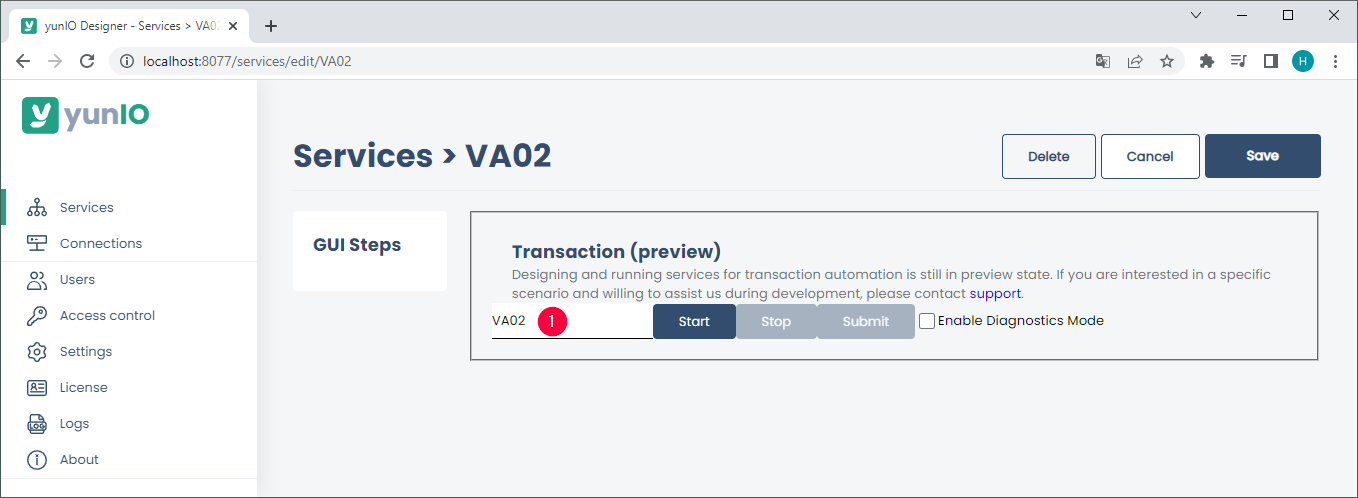
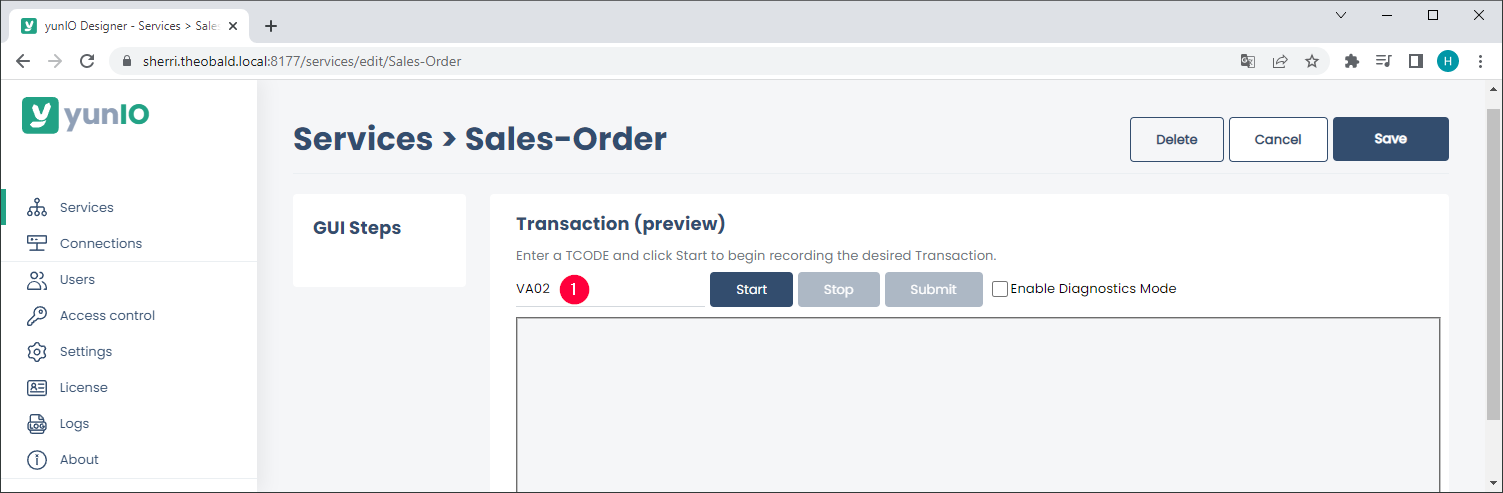
new screenshots

diff --git a/content/_de/yunio/transactions.md b/content/_de/yunio/transactions.md
@@ -24,44 +24,44 @@ Transaktionen erfordern zwingend die Verwendung eines SAP-Dialogbenutzers in den
 Wenn Sie mit der Navigation der SAP GUI vertraut sind, vereinfacht das die Erstellung eines *Transaction* Services.
 
 
-### Transaktionen Auszeichnen
+### Transaktionen Aufzeichnen
 
 1. Erstellen Sie einen neuen *Service* vom Typ *Transaction*.  
-2. Geben Sie einen Transaktionscode ein (1) und klicken Sie auf **[Start]**, um die Transaktion auszuführen.
-Der Inhalt der SAP GUI wird angezeigt.<br>
-Klicken Sie auf **[Stop]**, um die laufende Transaktion abzubrechen.<br>
+2. Geben Sie einen Transaktionscode ein (1). <br>
 ![transaction](/img/content/yunio/transaction.png){:class="img-responsive"}
-3. Füllen Sie die Eingabefelder so aus, wie Sie es in der SAP GUI tun würden. Die Felder können parametrisiert werden, sobald die Transaktion aufgezeichnet wurde.
-4. Klicken Sie auf **[Submit]** (2), um Ihre Eingaben zu übergeben.
+3. Klicken Sie auf **[Start]**, um die Transaktion auszuführen.
+Der Inhalt der SAP GUI wird angezeigt.
+4. Füllen Sie die Eingabefelder so aus, wie Sie es in der SAP GUI tun würden. Die Felder können parametrisiert werden, sobald die Transaktion aufgezeichnet wurde.
+5. Klicken Sie auf **[Submit]** (2), um Ihre Eingaben zu übergeben.
 Alle Aktionen die Sie ausführen, werden im Abschnitt *GUI Steps* aufgezeichnet (3). <br>
 ![transaction-ie01](/img/content/yunio/transaction-ie01.png){:class="img-responsive"}
-5. Klicken Sie auf **[Save]**, sobald alle Eingaben erledigt sind. <br>
+6. Klicken Sie auf **[Save]**, sobald alle Eingaben erledigt sind. <br>
 Alternativ, klicken Sie auf **[Stop]**, um die Transaktion zu parametrisieren, siehe [Transaktionen Parametrisieren](#transaktionen-parametrisieren).
 
 ### Transaktionen Parametrisieren
 
+{: .box-note }
+**Hinweis:** Alle Felder, die Sie parametrisieren möchten, müssen im Transaktions-Service über den Abschnitt *GUI Steps* verfügbar sind. Um ein Feld in einem bestimmten Reiter oder einem Menü zu parametrisieren, muss der Reiter / das Menü geöffnet werden, wenn die Transaktion aufgezeichnet wird.
+
 Führen Sie die folgenden Schritte aus, um eine Transaktion zu parametrisieren.
 
-1. Zeichnen Sie eine Transaktion auf, siehe [Record Transactions](#record-transactions).<br>
-Achten Sie darauf, dass alle Felder, die Sie parametrisieren möchten, über den Abschnitt *GUI Steps* verfügbar sind.
-Beispiel: Wenn ein Eingabefeld in einem bestimmten Reiter oder einem Menü parametrisieren möchten, muss der Reiter / das Menü geöffnet werden, wenn Sie die Transaktion aufzeichnen.
-2. Öffnen Sie den Transaktions-Service. Um einen Service zu bearbeiten, klicken Sie im Menü *Services* auf **[Edit]** ( ![edit-cog-icon](/img/content/yunio/edit-cog-icon.png){:class="img-responsive" style="display:inline"} Symbol), um die Transaktion zu öffnen.<br>
-![transaction-edit](/img/content/yunio/transaction-edit.png){:class="img-responsive"}
-3. In dem Abschnitt *SAP GUI* klicken Sie auf die Aktion, die Sie parametrisieren möchten. Der dazugehörige Eingabebildschirm öffnet sich.<br>
-![transaction-actions](/img/content/yunio/transaction-actions.png){:class="img-responsive"}
-4. Klicken Sie auf die Felder, die Sie parametrisieren möchten.<br>
+1. Öffnen Sie den Transaktions-Service. 
+2. In dem Abschnitt *SAP GUI* klicken Sie auf die Aktion, die Sie parametrisieren möchten. Der dazugehörige Eingabebildschirm öffnet sich.
+3. Klicken Sie auf die Felder, die Sie parametrisieren möchten.<br>
 Alle Felder, die parametrisiert werden können, werden grün markiert, wenn Sie mit dem Cursor darüber fahren.<br>
-5. Wählen Sie **Input**, um Werte zur Laufzeit überschreiben. Felder, die als **Input** markiert sind, sind als Eingabeparameter im Request Body des Services verfügbar.<br>
-Wählen Sie **Output**, um Werte nach Ausführung des Services zurückzugeben. Felder, die als **Output** markiert sind, sind im Response Body des Services verfügbar.<br>
+![transaction-actions](/img/content/yunio/va02param.gif)
+4. Wählen Sie **Input**, um Werte zur Laufzeit überschreiben. Felder, die als **Input** markiert sind, sind als Eingabeparameter im Request Body des Services verfügbar.
+5. Wählen Sie **Output**, um Werte nach Ausführung des Services zurückzugeben. Felder, die als **Output** markiert sind, sind im Response Body des Services verfügbar.
+6. Optional: Unter **Parameter name** können Sie den Namen des Parameters bearbeiten.<br>
 ![transaction-parameterize](/img/content/yunio/transaction-parameterize.png){:class="img-responsive"}
-6. Optional: Bearbeiten Sie den Namen des Parameters.
 7. Klick Sie auf **[OK]**, um ihre Eingabe zu bestätigen.
 8. Klicken Sie auf **[Save]**, um Ihre Änderungen zu speichern.
 
 Die Eingabeparameter sind im Request Body des Services verfügbar.<br>
 Die Ausgabeparameter sind im Response Body des Services verfügbar.
 
-Beispiel: der folgende Screenshot vom Swagger Inspector zeigt, wo Sie den Eingabeparameter *Input_Order* bearbeiten können und wo der Ausgabeparameter *Output_Weight* verfügbar ist.<br>
+Beispiel<br>
+Der folgende Screenshot vom Swagger Inspector zeigt, wo Sie den Eingabeparameter *Input_Order* bearbeiten können und wo der Ausgabeparameter *Output_Weight* verfügbar ist.<br>
 ![transaction-copy-download](/img/content/yunio/transaction-swagger-inspector.png){:class="img-responsive"}
 
 

diff --git a/content/_en/yunio/transactions.md b/content/_en/yunio/transactions.md
@@ -25,39 +25,40 @@ Therefore knowing how to navigate the SAP GUI makes it easier to use the transac
 ### Record Transactions
 
 1. Create a new service of type *Transaction*.  
-2. Enter a transaction code (1) and click **[Start]** to run the transaction. Content from the SAP GUI is displayed. <br>
-Click **[Stop]** to cancel the transaction.<br>
+2. Enter a transaction code (1). <br>
 ![transaction](/img/content/yunio/transaction.png){:class="img-responsive"}
-3. Fill out the input fields as you would in the SAP GUI. Input fields can be parameterized once the transaction is recorded, see [Parameterizing Transactions](parameterizing-transactions).
-4. Click **[Submit]** (2) to enter your input.
+3. Click **[Start]** to run the transaction. Content from the SAP GUI is displayed. 
+4. Fill out the input fields as you would in the SAP GUI. Input fields can be parameterized once the transaction is recorded, see [Parameterizing Transactions](parameterizing-transactions).
+5. Click **[Submit]** (2) to enter your input.
 All executed actions are logged in the section *GUI Steps* (3). <br>
 ![transaction-va02](/img/content/yunio/transaction-va02.png){:class="img-responsive"}
-5. Click **[Save]** once you finished recording.<br>
+6. Click **[Save]** once you finished recording.<br>
 Alternatively, click **[Stop]** to start parameterizing, see [Parameterize Transactions](#parameterize-transactions).
 
 ### Parameterize Transactions
 
-Follow the steps below to assign input and output parameters to a transaction service.
+{: .box-note }
+**Note:** All fields that need to be parameterized must be available in the transaction service as *GUI Steps*. To parameterize a field in a specific tap or menu, the tab or menu must be accessed when recording the transaction.
 
-1. Record a transaction, see [Record Transactions](#record-transactions).<br>
-Make all fields that you want to parameterize available in the section *GUI Steps*. 
-Example: If you want to parameterize an input field in a specific tap or menu, the tab or menu must be accessed when recording the transaction.
-2. Open the transaction service. To edit a service in the *service* menu, click **[Edit]** ( ![edit-cog-icon](/img/content/yunio/edit-cog-icon.png){:class="img-responsive" style="display:inline"} icon). 
-3. In the *SAP GUI* section click on the action you want to parameterize. The corresponding input screen opens.<br>
-![transaction-actions](/img/content/yunio/transaction-actions.png){:class="img-responsive"}
-4. Click on the fields you want to parameterize. The window "Parameterize Element" opens.<br>
+Follow the steps below to assign input and output parameters to a transaction service. <br>
+
+1. Open the transaction service. 
+2. In the *SAP GUI* section click on the action you want to parameterize. The corresponding input screen opens.<br>
+3. Click on the fields you want to parameterize. The window "Parameterize Element" opens.
 All fields that can be parameterized are highlighted in green when hovering over them. <br>
-5. Select **Input** to override the value when running the service. Fields that are set to **Input** become available as input parameters in the request body of the service.<br>
-Select **Output** to return the value of this field when running the service. Fields that are set to **Output** become available in the response body of the service.<br>
+![transaction-actions](/img/content/yunio/va02param.gif)
+4. Select **Input** to override the value when running the service. Fields that are set to **Input** become available as input parameters in the request body of the service.
+5. Select **Output** to return the value of this field when running the service. Fields that are set to **Output** become available in the response body of the service.
+6. Optional: Under **Parameter name** you can edit the name of the parameter.<br>
 ![transaction-parameterize](/img/content/yunio/transaction-parameterize.png){:class="img-responsive"}
-6. Optional: edit the name of the parameter.
 7. Click **[OK]** to confirm your input.
 8. Click **[Save]** to save your changes.
 
 Input parameters are now accessible in the request body of the service.<br>
-Ouput parameters are now accessible in the response body of the service.
+Ouput parameters are now accessible in the response body of the service.<br>
 
-Example: the following screenshot shows where to edit the input parameter *Input_Order* and where to access the output parameter *Output_Weight* in Swagger Inspector.<br>
+Example: <br>
+The following screenshot shows where to edit the input parameter *Input_Order* and where to access the output parameter *Output_Weight* in Swagger Inspector.<br>
 ![transaction-copy-download](/img/content/yunio/transaction-swagger-inspector.png){:class="img-responsive"}
 
 
